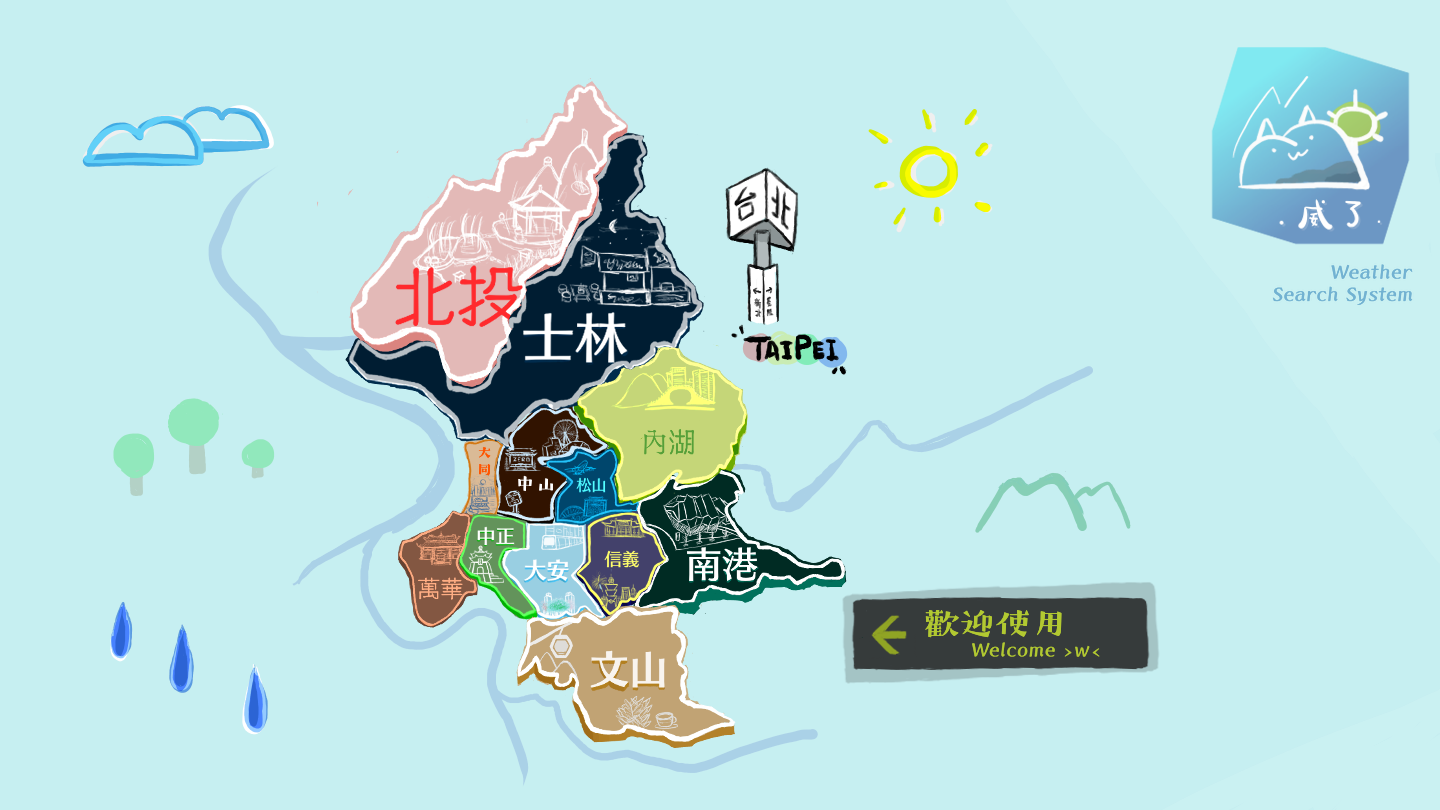
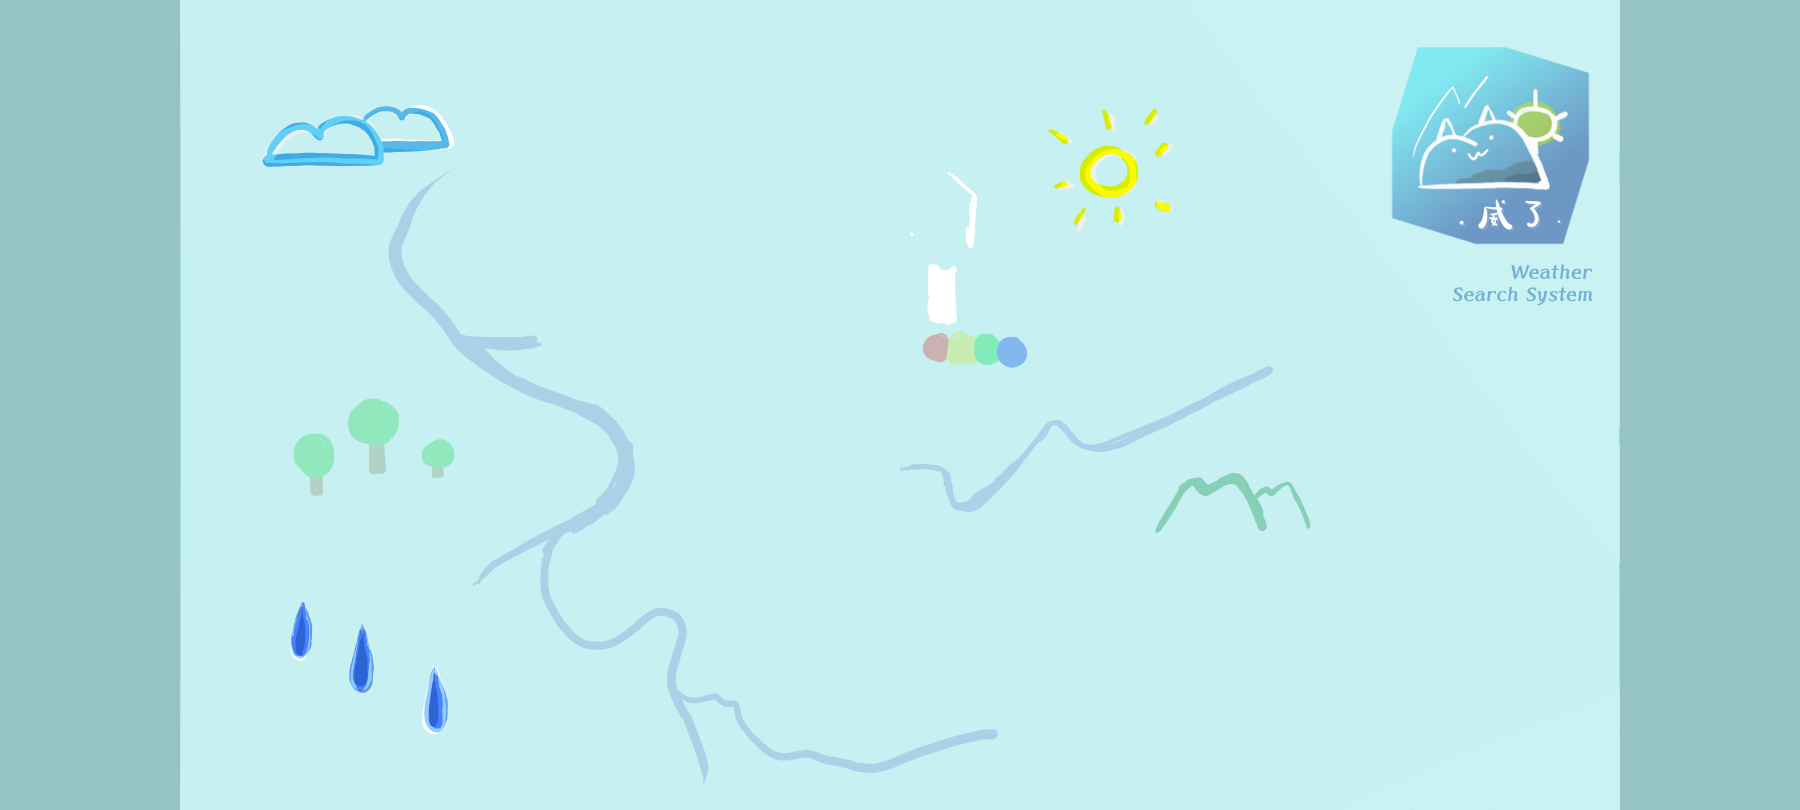
add taipei map in homepage

diff --git a/templates/index.html b/templates/index.html
@@ -16,6 +16,11 @@
       document.getElementById("sidebar").style.zIndex = "100";
       document.getElementById("open-button").style.zIndex = "-1";
     }
+
+    function submitSite(value) {
+      document.getElementById('site').value = value;
+      document.getElementById('weather-form').submit();
+    }
   </script>
   {% if weather %}
   {% set config = IMPORT('config') %}
@@ -32,25 +37,9 @@
     <button onclick="openMenu();" class="open_menu" id="open-button">&#9776;</button>
   </div>
   {% if weather %}<img src="{{ url_for('static',filename='districts/%s.jpg'%site) }}" alt="{{ site }}">{% endif %}
-  <div id="weather_form">
-    <form action="/" , method="POST">
-      <select name="site" id="site" required>
-        <option value="北投區">北投區</option>
-        <option value="松山區">松山區</option>
-        <option value="士林區">士林區</option>
-        <option value="內湖區">內湖區</option>
-        <option value="中山區">中山區</option>
-        <option value="中正區">中正區</option>
-        <option value="信義區">信義區</option>
-        <option value="大安區">大安區</option>
-        <option value="文山區">文山區</option>
-        <option value="南港區">南港區</option>
-        <option value="大同區">大同區</option>
-        <option value="萬華區">萬華區</option>
-      </select>
-      <input type="submit" value="查詢">
-    </form>
-  </div>
+  <form action="/" , method="POST" id="weather-form" style="display: none;">
+    <input type="hidden" value="test" id="site" name="site">
+  </form>
   {% if weather %}
   <div>last update: {{ last_update }}</div>
   {% for factor in weather %}
@@ -63,15 +52,38 @@
   {% endif %}
   {% endfor %}
   {% endif %}
+  <div id="map">
+    <img src="{% if not weather %}{{ url_for('static',filename='map.png') }}{% endif %}" usemap="#taipei-map">
+    <map name="taipei-map">
+      <area onclick="submitSite('北投區');"
+        coords="423,29,398,34,289,141,210,177,133,264,78,338,53,383,91,431,168,412,193,460,229,486,291,432,320,331,427,211,461,85"
+        shape="poly">
+      <area onclick="submitSite('士林區');"
+        coords="477,108,453,137,436,205,408,254,378,314,336,333,300,414,243,500,202,484,62,433,82,488,261,578,300,584,340,521,463,467,585,382"
+        shape="poly">
+      <area onclick="submitSite('大同區');" coords="283,583,233,587,227,689,275,691" shape="poly">
+      <area onclick="submitSite('中山區');"
+        coords="344,531,298,594,283,687,356,702,389,645,344,617,400,596,446,592,392,536" shape="poly">
+      <area onclick="submitSite('松山區');" coords="359,616,390,642,372,701,495,687,465,677,455,599" shape="poly">
+      <area onclick="submitSite('內湖區');"
+        coords="554,632,601,645,654,581,645,497,551,442,450,492,409,520,468,594,464,652,491,675" shape="poly">
+      <area onclick="submitSite('萬華區');" coords="230,694,210,691,133,740,156,853,183,865,246,810,212,772" shape="poly">
+      <area onclick="submitSite('中正區');" coords="243,699,308,709,286,761,335,845,318,852,272,813,224,777,240,723"
+        shape="poly">
+      <area onclick="submitSite('大安區');" coords="328,710,413,715,399,788,443,850,348,853,293,758" shape="poly">
+      <area onclick="submitSite('信義區');" coords="422,713,491,696,540,762,494,827,453,852,407,784" shape="poly">
+      <area onclick="submitSite('南港區');"
+        coords="495,834,808,794,804,770,655,721,638,685,655,638,553,649,501,680,542,769" shape="poly">
+      <area onclick="submitSite('文山區');" coords="335,857,555,842,576,985,640,1021,564,1049,430,1031,397,953,313,946"
+        shape="poly">
+    </map>
+  </div>
   <footer>
     <span>© 2020 <a href="https://github.com/SiriusKoan" target="_blank">SiriusKoan</a> & Red</span>
   </footer>
   <div id="bg">
     <img
-      src="{% if weather %}{{ url_for('static',filename='background/%s.png'%site) }}{% else %}{{ url_for('static',filename='background/default.png') }}{% endif %}" usemap="#taipei-map">
-      <map name="taipei-map">
-        <area target="" alt="" title="" href="" coords="526,526,527,544,507,549,502,563,521,589,540,613,567,614,581,607,593,613,605,612,577,568,586,557,583,521" shape="poly">
-    </map>
+      src="{% if weather %}{{ url_for('static',filename='background/%s.png'%site) }}{% else %}{{ url_for('static',filename='background/default.png') }}{% endif %}">
   </div>
 </body>
 

diff --git a/static/index.css b/static/index.css
@@ -37,10 +37,12 @@ footer {
     margin-bottom: 5px;
     color: black;
 }
+
 footer a {
     text-decoration: none;
     color: black;
 }
+
 footer a:hover {
     text-decoration: underline;
 }
@@ -65,7 +67,7 @@ div {
     background-size: cover;
     -webkit-animation: bgfadein 4s;
     /* Chrome, Safari, Opera */
-    animation: bgfadein 4s;
+    animation: bgfadein 3s;
     position: absolute;
     top: 0;
     z-index: -1;
@@ -96,4 +98,10 @@ div {
 #bg img {
     width: 100%;
     height: 100%;
+}
+
+#map {
+    zoom: 0.5;
+    -o-transform: scale(0.5);
+    -moz-transform: scale(0.5)
 }

diff --git a/app.py b/app.py
@@ -58,7 +58,7 @@ def forecast():
             ).text
         )
         last_update = datetime.datetime.fromtimestamp(
-            data_cache["forecast_update_time"]
+            data_cache["forecast_update_time"] + config.server_timezone * 3600
         ).strftime("%Y-%m-%d %H:%M:%S")
         return render_template(
             "forecast.html",
@@ -74,15 +74,15 @@ def api():
     sitename = payload["sitename"]
     data_type = payload["data_type"]
     if data_type == "forecast":
-        if time.time() - data_cache["forecast_update_time"] > 3600:
-            # update every one hour
+        if time.time() - data_cache["forecast_update_time"] > 600:
+            # update every ten minutes
             data_cache["forecast"] = update_forecast()
         data = data_cache["forecast"]
         for site in data:
             if site["locationName"] == sitename:
                 return str(site).replace("'", '"')  # return json
     if data_type == "now":
-        if time.time() - data_cache["now_update_time"] > 3600:
+        if time.time() - data_cache["now_update_time"] > 600:
             data_cache["now"] = update_now()
         data = data_cache["now"]
         return str(data[config.district_to_site[sitename]]).replace("'", '"')

diff --git a/config.py b/config.py
@@ -1,5 +1,6 @@
 CWB_TOKEN = ""
 host = "http://127.0.0.1:8080"
+server_timezone = 8
 
 district_to_site = {
     "北投區": "石牌",
@@ -14,21 +15,6 @@ district_to_site = {
     "南港區": "松山",
     "大同區": "臺北",
     "萬華區": "臺北",
-}
-district_color = {
-    # temporary background
-    "北投區": None,
-    "松山區": (0, 69, 108),
-    "士林區": None,
-    "內湖區": (197, 214, 120),
-    "中山區": None,
-    "中正區": (99, 146, 91),
-    "信義區": (67, 64, 107),
-    "大安區": (152, 207, 227),
-    "文山區": (200, 171, 127),
-    "南港區": None,
-    "大同區": (218, 185, 150),
-    "萬華區": None,
 }
 
 barometer_to_chinese = {
